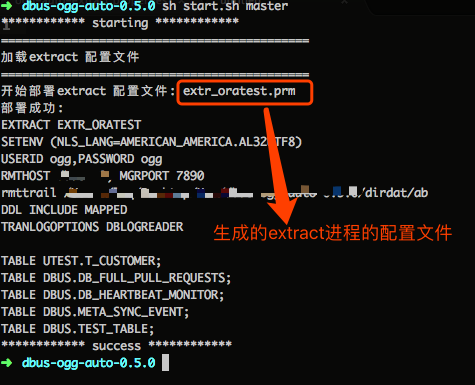
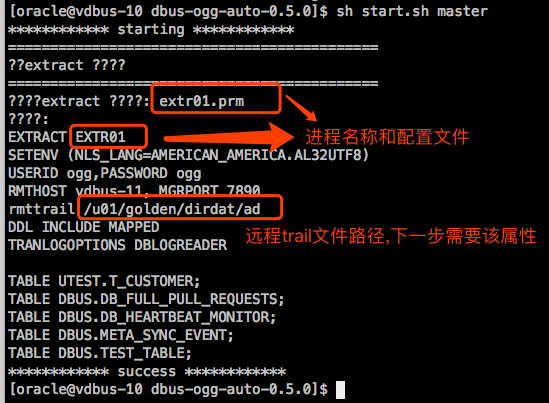
ogg 文档更新

diff --git a/docs/install-oracle-source.md b/docs/install-oracle-source.md
@@ -148,11 +148,12 @@ DBus处理OGG for bigdata实时输出的AVRO格式的二进制数据，并处理
 
   *  在OGG所在的 **ora-slave 服务器** 上执行
   	
-    ```shell
-    #首先确保mgr进程启动
-    GGSCI> info mgr
-    Manager is running (IP port yourip.7890, Process ID 24092).
-    ```
+  	
+	```shell
+	#首先确保mgr进程启动
+	GGSCI> info mgr
+	Manager is running (IP port yourip.7890, Process ID 24092).
+	```
    
   如果没有启动参考[mgr启动](#mgr)
      
@@ -168,9 +169,10 @@ DBus处理OGG for bigdata实时输出的AVRO格式的二进制数据，并处理
 	
 	```
 	#OGG安装目录，公共基础，必填
-	ogg.home=/u01/golden123111
+	ogg.home=/u01/golden-ora
 	#extract进程名称，同时也是生成的配置文件的名称，需要不与其他extract重复
-	extract.name=extr_oratest
+	#此字符不宜过长（不能大于8个字符）
+	extract.name=extr01
 		
 		
 	#--- 加表配置项 ---
@@ -190,8 +192,8 @@ DBus处理OGG for bigdata实时输出的AVRO格式的二进制数据，并处理
 	rm.host=dbus-n2
 	#安装OGG for bigdata机器中配置的OGG for bigdata的mgr进程配置的port
 	mgr.port=7890
-	#远程trail文件分配的占位字符，只能有两个字符
-	extract.file.portion=ab
+	#远程ogg for bigdata目录下的dirdat目录。最后的占位字符只能有两个字符。
+   extract.file=/u01/golden/dirdat/ad
 	#添加同步的表，逗号分隔。
 	tables=UTEST.T_CUSTOMER
 	```
@@ -207,21 +209,21 @@ DBus处理OGG for bigdata实时输出的AVRO格式的二进制数据，并处理
    
 	```
 	#制定抽取tranlog，这里的：now是参数值，也可以写一个固定的时间值
-	GGSCI> add extract extr_oratest, tranlog, begin now
+	GGSCI> add extract extr01, tranlog, begin now
 	
-	#添加远程
-	GGSCI> add rmttrail /u01/golden123111/dirdat/ab, extract extr_oratest
+	#添加远程, 与上一步添加的配置一样
+	GGSCI> add rmttrail /u01/golden/dirdat/ad, extract extr01
 	#启动抽取进程
-	GGSCI> start extr_oratest
+	GGSCI> start extr01
 	#确认启动成功
-	GGSCI> info extr_oratest
+	GGSCI> info extr01
 	# Status RUNNING 表示启动成功
-	EXTRACT    EXTR_ORATEST    Last Started 2018-01-24 12:03   Status RUNNING
-	Checkpoint Lag       00:00:00 (updated 00:00:05 ago)
-	Process ID           15216
-	Log Read Checkpoint  Oracle Redo Logs
-	                     2018-01-24 12:04:06  Seqno 4270, RBA 15248896
-	                     SCN 0.52999102 (52999102)
+	EXTRACT    EXTR01    Last Started 2018-09-05 13:52   Status RUNNING
+   Checkpoint Lag       00:00:00 (updated 00:00:32 ago)
+   Process ID           11396
+   Log Read Checkpoint  Oracle Redo Logs
+                     2018-09-05 13:51:55  Seqno 47, RBA 11880464
+                     SCN 0.0 (0)
 	                     
 	# 如果出现
 	#ERROR   OGG-02091  Oracle GoldenGate Capture for Oracle, orcl.prm:  Operation not supported because enable_goldengate_replication is not set to true.
@@ -245,12 +247,11 @@ DBus处理OGG for bigdata实时输出的AVRO格式的二进制数据，并处理
 	
 	![dbus-ogg-auto解压目录](img/install-oracle-auto-directs.png)
 	
-	
 	具体的配置信息如下：
 	
 	```shell
 	#解压安装OGG for bigdata的目录，必填
-	ogg.big.home=/u01/golden123111
+	ogg.big.home=/u01/golden
 	#数据源名称，同时也是配置文件名称的来源
 	dsname=oratest
 	
@@ -268,7 +269,7 @@ DBus处理OGG for bigdata实时输出的AVRO格式的二进制数据，并处理
 	#ogg用户密码
 	ogg.pwd=ogg
 	#默认不用修改，如果需要配置与之前的producer不同的配置，填写新的文件名称。否则，会覆盖之前的配置文件。
-	kafka.producer.name=kafka_producer.properties
+	kafka.producer.name=kafka_producer4.properties
 	#kafka地址
 	kafka.url=dbus-n1:9092,dbus-n2:9092,dbus-n3:9092
 	#数据库配置的字符集
@@ -303,16 +304,16 @@ https://docs.oracle.com/goldengate/bd123110/gg-bd/GADBD/using-kafka-handler.htm#
 	```shell
 	#!!此处需要注意： 
 	#1.exttrail的内容要与2.2节中配置项一致;
-	#2.replicat进程名称要与2.3.1生成的repl_oratest.prm文件名一致
-	GGSCI> add replicat repl_oratest, exttrail /u01/golden123111/dirdat/ab
-	GGSCI> start repl_oratest
+	#2.replicat进程名称要与2.3.1生成的oratest.prm文件名一致
+	GGSCI> add replicat oratest, exttrail /u01/golden/dirdat/ad
+	GGSCI> start oratest
 	#验证启动是否成功
-	GGSCI> info repl_oratest
-	REPLICAT   REPL_ORATEST   Last Started 2018-01-24 14:58   Status RUNNING
-	Checkpoint Lag       00:00:00 (updated 00:00:08 ago)
-	Process ID           21887
-	Log Read Checkpoint  File /u01/golden123111/dirdat/ab000000002
-	                     2018-01-24 12:02:37.818342  RBA 1472
+	GGSCI> info oratest
+	REPLICAT   ORATEST   Last Started 2018-09-05 14:01   Status RUNNING
+   Checkpoint Lag       00:00:00 (updated 00:00:07 ago)
+   Process ID           14189
+   Log Read Checkpoint  File /u01/golden/dirdat/ad000000000
+                     First Record  RBA 0
 	```
 
 至此utest.t_customer表中的数据变化就可以写到kafka中了，接下来使用dbus-keeper系统进行配置，将数据接入到dbus系统并输出UMS到kafka。
@@ -656,12 +657,12 @@ ORACLE_HOME=$ORACLE_BASE/11.2.0/db_1
 
        ```shell
        #进入ggsci命令行
-       Shell> /u01/golden123012/ggsci
+       Shell> /u01/golden-ora/ggsci
        #编辑mgr配置文件(执行后会进入vi环境)
        GGSCI> edit param mgr
        #输入以下内容并保存
        PORT 7890
-       PURGEOLDEXTRACTS /u01/golden123012/dirdat, USECHECKPOINTS
+       PURGEOLDEXTRACTS /u01/golden-ora/dirdat, USECHECKPOINTS
        #自动重启的配置
        AUTORESTART EXTRACT *,RETRIES 5,WAITMINUTES 1
        #启动mgr进程
@@ -696,8 +697,8 @@ ORACLE_HOME=$ORACLE_BASE/11.2.0/db_1
   2. 解压安装
 
      ```shell
-     Shell> mkdir /u01/golden123111/
-     #上传 123111_ggs_Adapters_Linux_x64.zip包至/u01/golden123111/
+     Shell> mkdir /u01/golden/
+     #上传 123111_ggs_Adapters_Linux_x64.zip包至/u01/golden/
      Shell> unzip 123111_ggs_Adapters_Linux_x64.zip
      Shell> tar -xvf ggs_Adapters_Linux_x64.tar
      ```
@@ -706,13 +707,13 @@ ORACLE_HOME=$ORACLE_BASE/11.2.0/db_1
 
      ```shell
      #执行ggsci命令
-     Shell> /u01/golden123111/ggsci
+     Shell> /u01/golden/ggsci
      GGSCI> create subdirs
      GGSCI> edit param mgr
      # 输入以下内容并保存
      PORT 7890
      # 只保留 7 天的 trail file 文件
-     PURGEOLDEXTRACTS /u01/golden123111/dirdat/*, usecheckpoints, minkeepdays 7
+     PURGEOLDEXTRACTS /u01/golden/dirdat/*, usecheckpoints, minkeepdays 7
      AUTORESTART REPLICAT *,RETRIES 5,WAITMINUTES 1
 
      GGSCI> start mgr
@@ -734,9 +735,9 @@ ORACLE_HOME=$ORACLE_BASE/11.2.0/db_1
 然后到安装目录下，创建kafka-jars目录
 
   	  ```shell
-		Shell> cd /u01/golden123111/
+		Shell> cd /u01/golden/
 		Shell> mkdir kafka-jars
-		#上传jar到/u01/golden123111/kafka-jars目录
+		#上传jar到/u01/golden/kafka-jars目录
 		Shell> ll
 		-rw-r--r-- 1 oracle oracle  743727 5月  18 2016 kafka-clients-0.10.0.0.jar
 		-rw-r--r-- 1 oracle oracle  236880 1月  13 2016 lz4-1.3.0.jar
@@ -770,7 +771,7 @@ ORACLE_HOME=$ORACLE_BASE/11.2.0/db_1
 	SETENV (NLS_LANG=AMERICAN_AMERICA.AL32UTF8)
 	USERID ogg,PASSWORD ogg
 	RMTHOST ip, MGRPORT 7890 --这里的ip指的是安装Oracle GoldenGate for Big Data机器的ip
-	rmttrail /u01/golden123111/dirdat/ab
+	rmttrail /u01/golden/dirdat/ad
 	DDL INCLUDE MAPPED
 	TRANLOGOPTIONS DBLOGREADER
 	
@@ -784,7 +785,7 @@ ORACLE_HOME=$ORACLE_BASE/11.2.0/db_1
 	GGSCI> add extract extr01, tranlog, begin now
 	
 	#添加远程
-	GGSCI> add rmttrail /u01/golden123111/dirdat/ab, extract extr01
+	GGSCI> add rmttrail /u01/golden/dirdat/ad, extract extr01
 	#启动抽取进程
 	GGSCI> start extr01
 	#确认启动成功
@@ -814,7 +815,7 @@ ORACLE_HOME=$ORACLE_BASE/11.2.0/db_1
 
   ```properties
   #创建kafka_producer.properties文件
-  Shell> cd /u01/golden123111/dirprm/
+  Shell> cd /u01/golden/dirprm/
   Shell> vim kafka_producer.properties
 
   #输入以下内容并保存
@@ -837,7 +838,7 @@ ORACLE_HOME=$ORACLE_BASE/11.2.0/db_1
 
   ```properties
   #创建oratest.props文件
-  Shell> cd /u01/golden123111/dirprm/
+  Shell> cd /u01/golden/dirprm/
   Shell> vim oratest.props
 
   #输入以下内容并保存
@@ -887,14 +888,14 @@ ORACLE_HOME=$ORACLE_BASE/11.2.0/db_1
 	MAP DBUS.DB_HEARTBEAT_MONITOR, TARGET DBUS.DB_HEARTBEAT_MONITOR;
 	MAP DBUS.META_SYNC_EVENT, TARGET DBUS.META_SYNC_EVENT;
 	
-	GGSCI> add replicat oratest, exttrail /u01/golden123111/dirdat/ab
+	GGSCI> add replicat oratest, exttrail /u01/golden/dirdat/ad
 	GGSCI> start oratest
 	#验证启动是否成功
 	GGSCI> info oratest
 	REPLICAT   ORATEST   Last Started 2018-01-24 14:58   Status RUNNING
 	Checkpoint Lag       00:00:00 (updated 00:00:08 ago)
 	Process ID           21887
-	Log Read Checkpoint  File /u01/golden123111/dirdat/ab000000002
+	Log Read Checkpoint  File /u01/golden/dirdat/ab000000002
 	                     2018-01-24 12:02:37.818342  RBA 1472
 	```
 	
